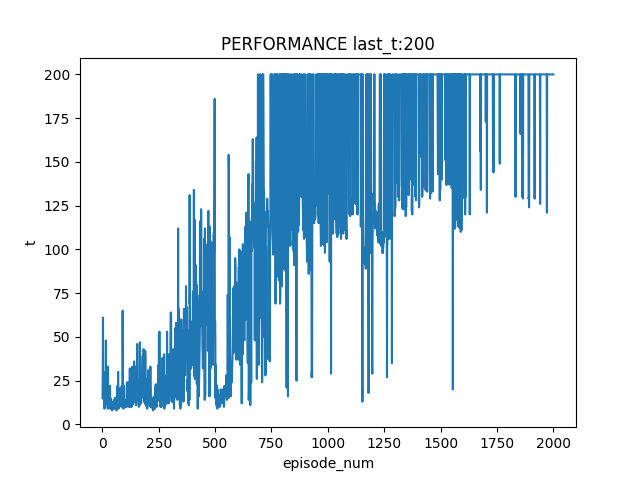
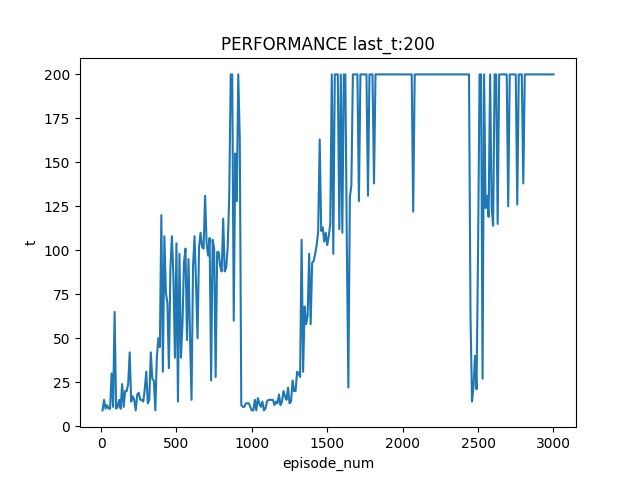
A3C CartPole-v0 beautify performance png

diff --git a/a3c/CartPole-v0/train.py b/a3c/CartPole-v0/train.py
@@ -120,7 +120,8 @@ def train(rank, args, shared_model, T, lock, optimizer):
             if (episode + 1) % 100 == 0:
                 log.debug('[training] T:{} rank:{} episdoe_num:{} episode_length:{} loss:{}'.format(
                     T.value, rank, episode + 1, t + 1, loss.item()))
-            performance_line.append((episode + 1, t + 1))
+            if (episode + 1) % 10 == 0:
+                performance_line.append((episode + 1, t + 1))
         loss.backward()
         ensure_shared_grads(model, shared_model)
         optimizer.step()

diff --git a/a3c/CartPole-v0/main.py b/a3c/CartPole-v0/main.py
@@ -29,7 +29,7 @@ parser.add_argument('--t-max', type=int, default=100000,
                     help='maximum length of an episode (default: 100000)')
 parser.add_argument('--env-name', default='CartPole-v0',
                     help='environment to train on (default: CartPole-v0)')
-parser.add_argument('--episode-num-per-proc', type=int, default=2000)
+parser.add_argument('--episode-num-per-proc', type=int, default=3000)
 
 
 if __name__ == '__main__':

diff --git a/README.md b/README.md
@@ -1,7 +1,2 @@
 # idiot
 
-todo list
-* A3C CartPole-v0 performance-chart 美化
-
-
-* A2C MountainCar-v0 调优
